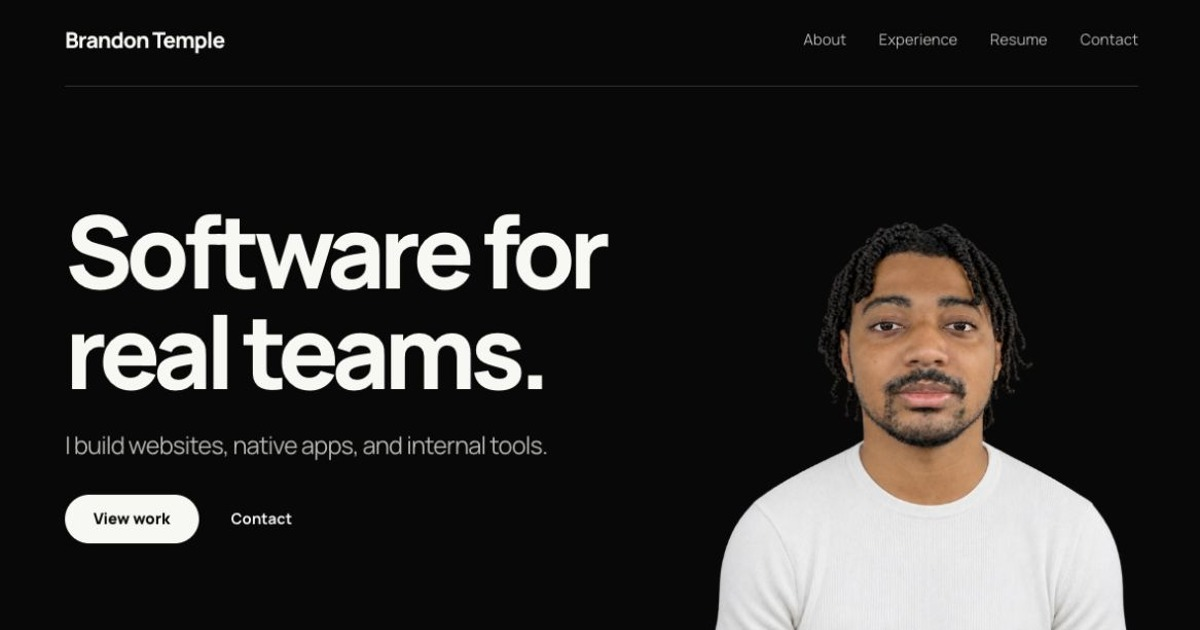
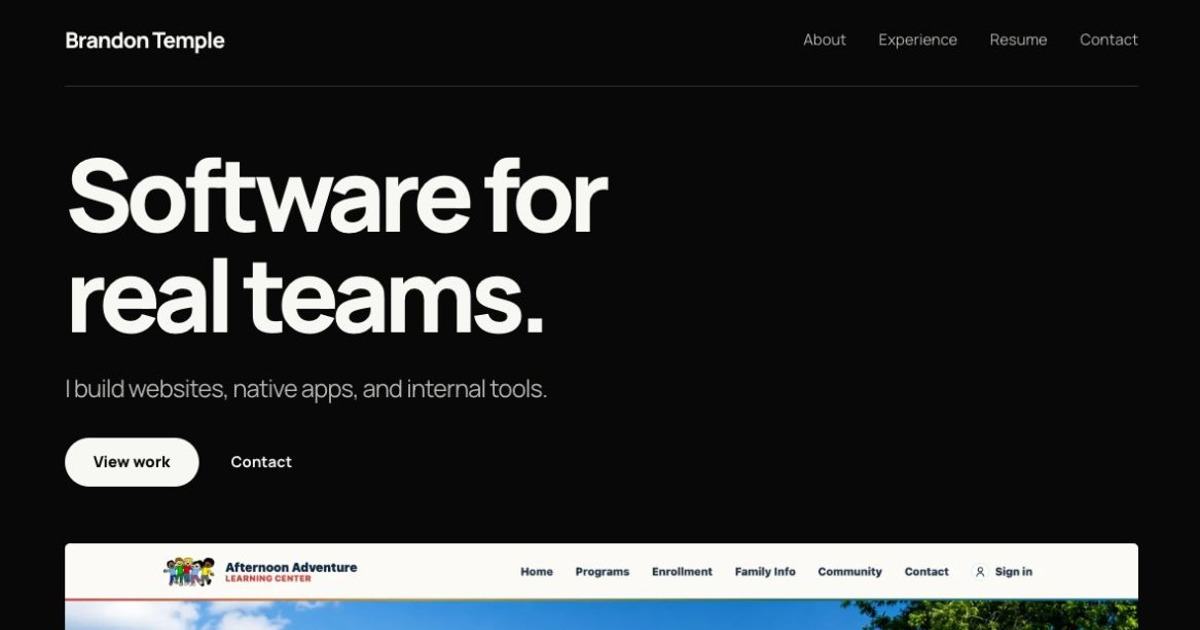
Remove portrait from portfolio and social previews

Changed region(s): [[0.0308, 0.3317, 0.9558, 1.0], [0.0617, 0.2413, 0.5242, 0.6333]]

diff --git a/index.html b/index.html
@@ -19,26 +19,25 @@
     <link rel="shortcut icon" href="/favicon.ico">
     <link rel="icon" href="/assets/images/favicon.png" type="image/png" sizes="192x192">
     <link rel="apple-touch-icon" href="/assets/images/apple-touch-icon.png" sizes="180x180">
-    <link rel="preload" as="image" type="image/webp" href="/assets/images/brandon-natural-white-ribbed-portrait.webp?v=20261115-mobile-v2" imagesrcset="/assets/images/brandon-natural-white-ribbed-portrait-320.webp 320w, /assets/images/brandon-natural-white-ribbed-portrait-640.webp 640w, /assets/images/brandon-natural-white-ribbed-portrait.webp 1024w" imagesizes="(max-width: 700px) calc((100vw - 52px) / 2), (max-width: 1050px) 40vw, 460px" fetchpriority="high">
     <meta property="og:type" content="profile">
     <meta property="og:title" content="Brandon Temple | Software Engineer &amp; Founder">
     <meta property="og:description" content="Official portfolio of Brandon Vashun Temple, Mississippi software engineer and founder of Breauti LLC, featuring production web, data, .NET, Firebase, native, and AI systems.">
     <meta property="og:url" content="https://brandontemple.com/">
     <meta property="og:site_name" content="Brandon Temple">
     <meta property="og:locale" content="en_US">
-    <meta property="og:image" content="https://brandontemple.com/assets/images/social-preview-editorial.jpg?v=20261115-mobile-v2">
-    <meta property="og:image:secure_url" content="https://brandontemple.com/assets/images/social-preview-editorial.jpg?v=20261115-mobile-v2">
+    <meta property="og:image" content="https://brandontemple.com/assets/images/social-preview-editorial.jpg?v=20261115-no-portrait">
+    <meta property="og:image:secure_url" content="https://brandontemple.com/assets/images/social-preview-editorial.jpg?v=20261115-no-portrait">
     <meta property="og:image:type" content="image/jpeg">
     <meta property="og:image:width" content="1200">
     <meta property="og:image:height" content="630">
-    <meta property="og:image:alt" content="Brandon Temple portfolio with a white ribbed shirt portrait and the headline Software for real teams">
+    <meta property="og:image:alt" content="Brandon Temple portfolio with the headline Software for real teams and featured software projects">
     <meta property="profile:first_name" content="Brandon">
     <meta property="profile:last_name" content="Temple">
     <meta name="twitter:card" content="summary_large_image">
     <meta name="twitter:title" content="Brandon Temple | Software Engineer &amp; Founder">
     <meta name="twitter:description" content="Official portfolio of Brandon Vashun Temple, Mississippi software engineer and founder of Breauti LLC, featuring production web, data, .NET, Firebase, native, and AI systems.">
-    <meta name="twitter:image" content="https://brandontemple.com/assets/images/social-preview-editorial.jpg?v=20261115-mobile-v2">
-    <meta name="twitter:image:alt" content="Brandon Temple portfolio with a white ribbed shirt portrait and the headline Software for real teams">
+    <meta name="twitter:image" content="https://brandontemple.com/assets/images/social-preview-editorial.jpg?v=20261115-no-portrait">
+    <meta name="twitter:image:alt" content="Brandon Temple portfolio with the headline Software for real teams and featured software projects">
     <script type="application/ld+json">
     {
         "@context": "https://schema.org",
@@ -56,20 +55,6 @@
                     "bt1142msstate"
                 ],
                 "url": "https://brandontemple.com/",
-                "image": [
-                    {
-                        "@id": "https://brandontemple.com/#profile-image"
-                    },
-                    {
-                        "@id": "https://brandontemple.com/#profile-image-square"
-                    },
-                    {
-                        "@id": "https://brandontemple.com/#profile-image-4x3"
-                    },
-                    {
-                        "@id": "https://brandontemple.com/#profile-image-16x9"
-                    }
-                ],
                 "email": "mailto:me@brandontemple.com",
                 "jobTitle": [
                     "Founder & Software Engineer",
@@ -177,75 +162,15 @@
             },
             {
                 "@type": "ImageObject",
-                "@id": "https://brandontemple.com/#profile-image",
-                "url": "https://brandontemple.com/assets/images/brandon-natural-white-ribbed-portrait.webp",
-                "contentUrl": "https://brandontemple.com/assets/images/brandon-natural-white-ribbed-portrait.webp",
-                "width": 1024,
-                "height": 1536,
-                "name": "Brandon Temple profile portrait",
-                "caption": "Brandon Temple wearing a modern white ribbed shirt, with no glasses or jewelry and a transparent background.",
-                "description": "Primary professional portrait of software engineer Brandon Vashun Temple.",
-                "encodingFormat": "image/webp",
-                "about": {
-                    "@id": "https://brandontemple.com/#brandon-temple"
-                },
+                "@id": "https://brandontemple.com/#portfolio-preview",
+                "url": "https://brandontemple.com/assets/images/social-preview-editorial.jpg",
+                "contentUrl": "https://brandontemple.com/assets/images/social-preview-editorial.jpg",
+                "width": 1200,
+                "height": 630,
+                "name": "Brandon Temple portfolio preview",
+                "description": "Typography-led portfolio featuring software projects and the headline Software for real teams.",
+                "encodingFormat": "image/jpeg",
                 "representativeOfPage": true
-            },
-            {
-                "@type": "ImageObject",
-                "@id": "https://brandontemple.com/#profile-image-square",
-                "url": "https://brandontemple.com/assets/images/brandon-profile-photo-square.jpg",
-                "contentUrl": "https://brandontemple.com/assets/images/brandon-profile-photo-square.jpg",
-                "width": 512,
-                "height": 512,
-                "name": "Brandon Temple square profile portrait",
-                "caption": "Square portrait of Brandon Temple wearing a light gray zip jacket in a bright white gallery.",
-                "description": "Square professional headshot of software engineer and Breauti LLC founder Brandon Vashun Temple.",
-                "encodingFormat": "image/jpeg",
-                "about": {
-                    "@id": "https://brandontemple.com/#brandon-temple"
-                }
-            },
-            {
-                "@type": "ImageObject",
-                "@id": "https://brandontemple.com/#profile-image-4x3",
-                "url": "https://brandontemple.com/assets/images/brandon-vashun-temple-profile-photo-4x3.jpg",
-                "contentUrl": "https://brandontemple.com/assets/images/brandon-vashun-temple-profile-photo-4x3.jpg",
-                "width": 1024,
-                "height": 768,
-                "name": "Brandon Vashun Temple profile portrait in 4:3 format",
-                "caption": "Brandon Vashun Temple in a light gray zip jacket in a bright white gallery.",
-                "description": "High-resolution 4:3 professional portrait of Breauti LLC founder and software engineer Brandon Vashun Temple.",
-                "encodingFormat": "image/jpeg",
-                "about": {
-                    "@id": "https://brandontemple.com/#brandon-temple"
-                }
-            },
-            {
-                "@type": "ImageObject",
-                "@id": "https://brandontemple.com/#profile-image-16x9",
-                "url": "https://brandontemple.com/assets/images/brandon-vashun-temple-profile-photo-16x9.jpg",
-                "contentUrl": "https://brandontemple.com/assets/images/brandon-vashun-temple-profile-photo-16x9.jpg",
-                "width": 1024,
-                "height": 576,
-                "name": "Brandon Vashun Temple profile portrait in 16:9 format",
-                "caption": "Brandon Vashun Temple in a light gray zip jacket in a bright white gallery.",
-                "description": "High-resolution 16:9 professional portrait of Breauti LLC founder and software engineer Brandon Vashun Temple.",
-                "encodingFormat": "image/jpeg",
-                "about": {
-                    "@id": "https://brandontemple.com/#brandon-temple"
-                }
-            },
-            {
-                "@type": "ImageObject",
-                "@id": "https://brandontemple.com/#illustrated-profile-image",
-                "url": "https://brandontemple.com/assets/images/brandon-illustrated-profile-photo.jpg",
-                "contentUrl": "https://brandontemple.com/assets/images/brandon-illustrated-profile-photo.jpg",
-                "width": 1120,
-                "height": 1400,
-                "name": "Illustrated portrait of Brandon Temple",
-                "caption": "Illustrated portrait of Brandon Temple wearing a white jacket in a warmly lit coffee shop.",
-                "description": "Illustrated profile portrait used in the About section of Brandon Temple's portfolio."
             },
             {
                 "@type": "WebSite",
@@ -277,9 +202,9 @@
                     "@id": "https://brandontemple.com/#brandon-temple"
                 },
                 "primaryImageOfPage": {
-                    "@id": "https://brandontemple.com/#profile-image"
+                    "@id": "https://brandontemple.com/#portfolio-preview"
                 },
-                "thumbnailUrl": "https://brandontemple.com/assets/images/brandon-profile-photo-square.jpg",
+                "thumbnailUrl": "https://brandontemple.com/assets/images/social-preview-editorial.jpg",
                 "hasPart": [
                     {
                         "@id": "https://brandontemple.com/#software-projects"
@@ -885,7 +810,7 @@
     }
     </script>
     <!-- profile:project-structured-data:end -->
-    <link rel="stylesheet" href="./assets/css/portfolio.css?v=20261115-mobile-v2">
+    <link rel="stylesheet" href="./assets/css/portfolio.css?v=20261115-no-portrait">
     <link rel="preconnect" href="https://fonts.googleapis.com">
     <link rel="preconnect" href="https://fonts.gstatic.com" crossorigin>
     <link rel="preload" as="style" href="https://fonts.googleapis.com/css2?family=Manrope:wght@400;500;600;700;800&amp;display=swap" onload="this.onload=null;this.rel='stylesheet'">
@@ -912,9 +837,6 @@
                     <a href="#contact" class="text-link">Contact</a>
                 </div>
             </div>
-            <figure class="hero-portrait">
-                <img src="/assets/images/brandon-natural-white-ribbed-portrait.webp?v=20261115-mobile-v2" srcset="/assets/images/brandon-natural-white-ribbed-portrait-320.webp 320w, /assets/images/brandon-natural-white-ribbed-portrait-640.webp 640w, /assets/images/brandon-natural-white-ribbed-portrait.webp 1024w" sizes="(max-width: 700px) calc((100vw - 52px) / 2), (max-width: 1050px) 40vw, 460px" alt="Brandon Temple in a white ribbed shirt" width="1024" height="1536" class="hero-profile-image" fetchpriority="high" decoding="async">
-            </figure>
         </div>
     </header>
     <main id="main-content" tabindex="-1">
@@ -1038,8 +960,8 @@
         </section>
     </div>
 
-    <script src="./assets/js/profile-data.js?v=20261115-mobile-v2" defer></script>
-    <script src="./assets/js/profile-render.js?v=20261115-mobile-v2" defer></script>
-    <script src="./assets/js/site.js?v=20261115-mobile-v2" defer></script>
+    <script src="./assets/js/profile-data.js?v=20261115-no-portrait" defer></script>
+    <script src="./assets/js/profile-render.js?v=20261115-no-portrait" defer></script>
+    <script src="./assets/js/site.js?v=20261115-no-portrait" defer></script>
 </body>
 </html>

diff --git a/assets/css/portfolio.css b/assets/css/portfolio.css
@@ -22,8 +22,8 @@ ul { margin: 0; padding: 0; }
 .nav-links { display: flex; align-items: center; gap: 2rem; list-style: none; }
 .nav-links a { display: block; padding-block: 1rem; color: var(--muted); font-size: 0.94rem; }
 .nav-links a:hover { color: var(--text); }
-.hero-content { display: grid; grid-template-columns: minmax(0, 1.4fr) minmax(0, 1fr); gap: 2rem; align-items: end; min-height: 540px; padding-top: 64px; }
-.hero-copy { align-self: center; padding-bottom: 46px; }
+.hero-content { padding-block: 3.5rem; }
+.hero-copy { max-width: 1100px; }
 .hero-title { max-width: 800px; font-size: clamp(4rem, 8.3vw, 7.5rem); line-height: 0.99; font-weight: 800; letter-spacing: -0.065em; }
 .hero-description { margin-top: 1.7rem; color: var(--muted); font-size: clamp(1.1rem, 2vw, 1.75rem); line-height: 1.4; letter-spacing: -0.035em; }
 .hero-buttons { display: flex; align-items: center; gap: 2rem; margin-top: 2rem; }
@@ -32,8 +32,6 @@ ul { margin: 0; padding: 0; }
 .btn-primary:hover { background: #deded9; }
 .text-link { min-height: 44px; display: inline-flex; align-items: center; gap: 0.65rem; font-size: 0.94rem; font-weight: 650; }
 .text-link:hover { color: #d8d8d0; }
-.hero-portrait { justify-self: end; width: min(100%, 460px); height: 480px; overflow: hidden; }
-.hero-profile-image { width: 100%; height: auto; }
 .work-section { padding-top: 0; }
 .project-showcase { display: flex; flex-direction: column; }
 .project-card { min-width: 0; scroll-margin-top: 2rem; }
@@ -133,10 +131,8 @@ ul { margin: 0; padding: 0; }
 .project-media-overlay-close { position: absolute; right: 0.7rem; top: 0.7rem; z-index: 5; display: grid; place-items: center; width: 44px; height: 44px; border: 1px solid var(--line); border-radius: 50%; background: #101010e8; font-size: 1.5rem; }
 @media (max-width: 1050px) {
 .container, .nav-container { width: calc(100% - 64px); }
-.hero-content { min-height: 430px; gap: 1rem; padding-top: 3rem; }
+.hero-content { padding-block: 2.5rem; }
 .hero-title { font-size: clamp(3.5rem, 7.5vw, 5rem); }
-.hero-portrait { height: 390px; }
-.hero-copy { padding-bottom: 2rem; }
 .reading-section > .container { grid-template-columns: minmax(0, 0.45fr) minmax(0, 1.5fr); gap: 2rem; }
 .project-card-phone { padding-inline: 0; gap: 2rem; }
 .project-secondary { gap: 2rem; }
@@ -150,15 +146,12 @@ ul { margin: 0; padding: 0; }
 .nav-logo { width: 100%; }
 .nav-links { display: flex; width: 100%; justify-content: space-between; gap: 0.75rem; }
 .nav-links a { display: flex; align-items: center; min-height: 44px; padding: 0.5rem 0; font-size: 0.82rem; }
-.hero-content { grid-template-columns: minmax(0, 1fr) minmax(0, 1fr); grid-template-areas: 'title title' 'description portrait' 'buttons portrait'; min-height: 0; padding-top: 1.8rem; gap: 1rem; }
-.hero-copy { display: contents; }
-.hero-title { grid-area: title; max-width: 100%; margin-bottom: 0.25rem; font-size: clamp(2.65rem, 12.8vw, 4.6rem); letter-spacing: -0.06em; line-height: 1.02; }
-.hero-description { grid-area: description; align-self: end; margin: 0; font-size: 1rem; line-height: 1.55; letter-spacing: -0.02em; }
-.hero-buttons { grid-area: buttons; align-self: start; flex-wrap: wrap; margin: 0; gap: 0.1rem 1rem; }
+.hero-content { padding-block: 1.8rem 2rem; }
+.hero-title { max-width: 100%; font-size: clamp(2.65rem, 12.8vw, 4.6rem); letter-spacing: -0.06em; line-height: 1.02; }
+.hero-description { margin-top: 1.1rem; max-width: 28rem; font-size: 1rem; line-height: 1.55; letter-spacing: -0.02em; }
+.hero-buttons { flex-wrap: wrap; margin-top: 1.25rem; gap: 1.5rem; }
 .hero-buttons .btn { min-height: 44px; padding: 0.75rem 1.1rem; font-size: 0.9rem; }
 .hero-buttons .text-link { font-size: 0.9rem; }
-.hero-portrait { grid-area: portrait; align-self: end; justify-self: end; width: 100%; height: clamp(200px, 56vw, 290px); }
-.hero-profile-image { height: 100%; object-fit: cover; object-position: center top; }
 .project-card-selected { padding-bottom: 2rem; margin-bottom: 2rem; }
 .project-body { display: block; padding-top: 1rem; }
 .project-caption h3 { font-size: clamp(1.7rem, 7vw, 2.3rem); }

diff --git a/resume/index.html b/resume/index.html
@@ -43,10 +43,7 @@
                 "jobTitle": [
                     "Founder & Software Engineer",
                     "Technology & Support Services Coordinator"
-                ],
-                "image": {
-                    "@id": "https://brandontemple.com/#profile-image"
-                }
+                ]
             },
             {
                 "@type": "WebPage",
@@ -163,8 +160,8 @@
             <a href="/accessibility/">Accessibility</a>
         </nav>
     </footer>
-    <script src="../assets/js/profile-data.js?v=20261115-mobile-v2" defer></script>
-    <script src="../assets/js/profile-render.js?v=20261115-mobile-v2" defer></script>
+    <script src="../assets/js/profile-data.js?v=20261115-no-portrait" defer></script>
+    <script src="../assets/js/profile-render.js?v=20261115-no-portrait" defer></script>
     <script src="print.js?v=20260729-accessibility-policies" defer></script>
 </body>
 </html>

diff --git a/README.md b/README.md
@@ -42,7 +42,7 @@ Then open `http://127.0.0.1:8000`.
 
 ## Project Images
 
-The homepage displays original project captures at their natural proportions. The first capture stays still; selecting the image or "View project" opens the full gallery and available scrollable demonstrations. The hero uses `assets/images/brandon-natural-white-ribbed-portrait.webp`.
+The homepage displays original project captures at their natural proportions. The first capture stays still; selecting the image or "View project" opens the full gallery and available scrollable demonstrations. The hero is typography-led, with no portrait.
 
 The older image-variant generator remains available for other framed uses:
 
